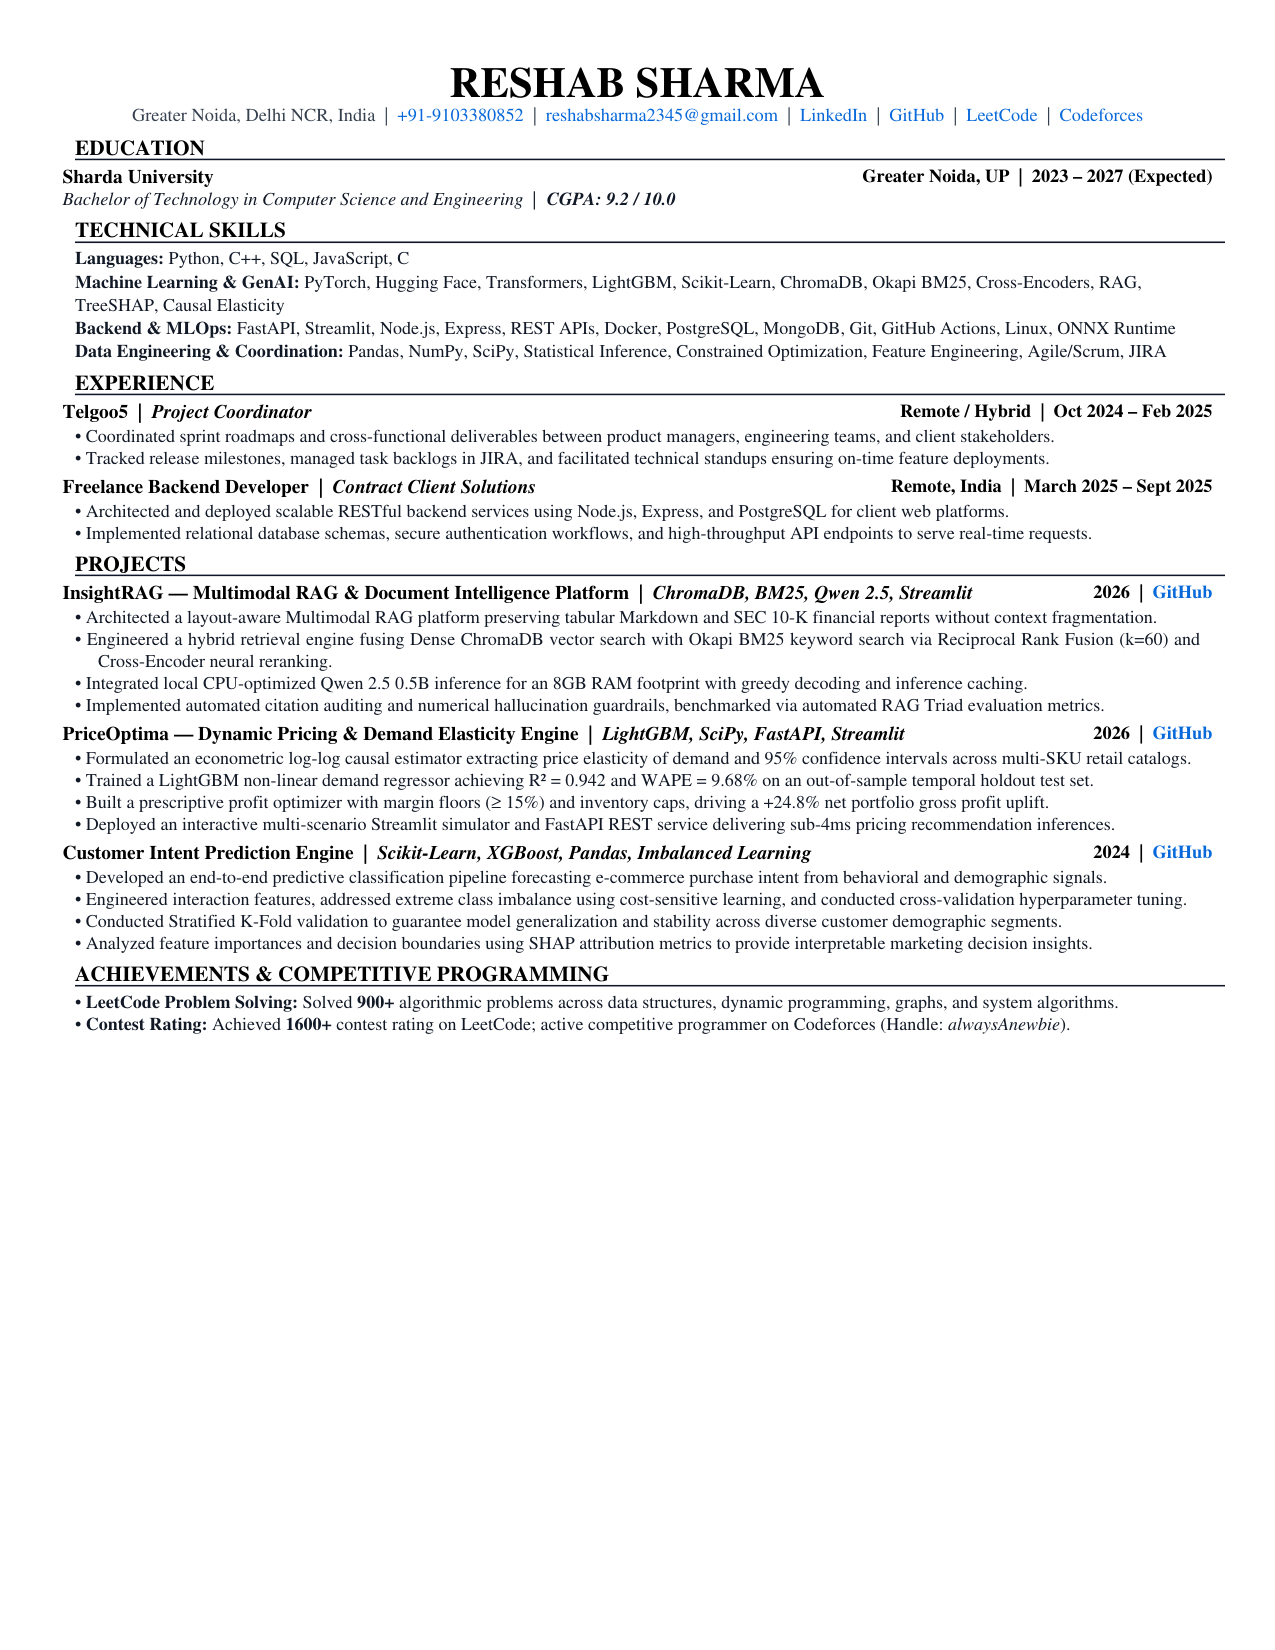
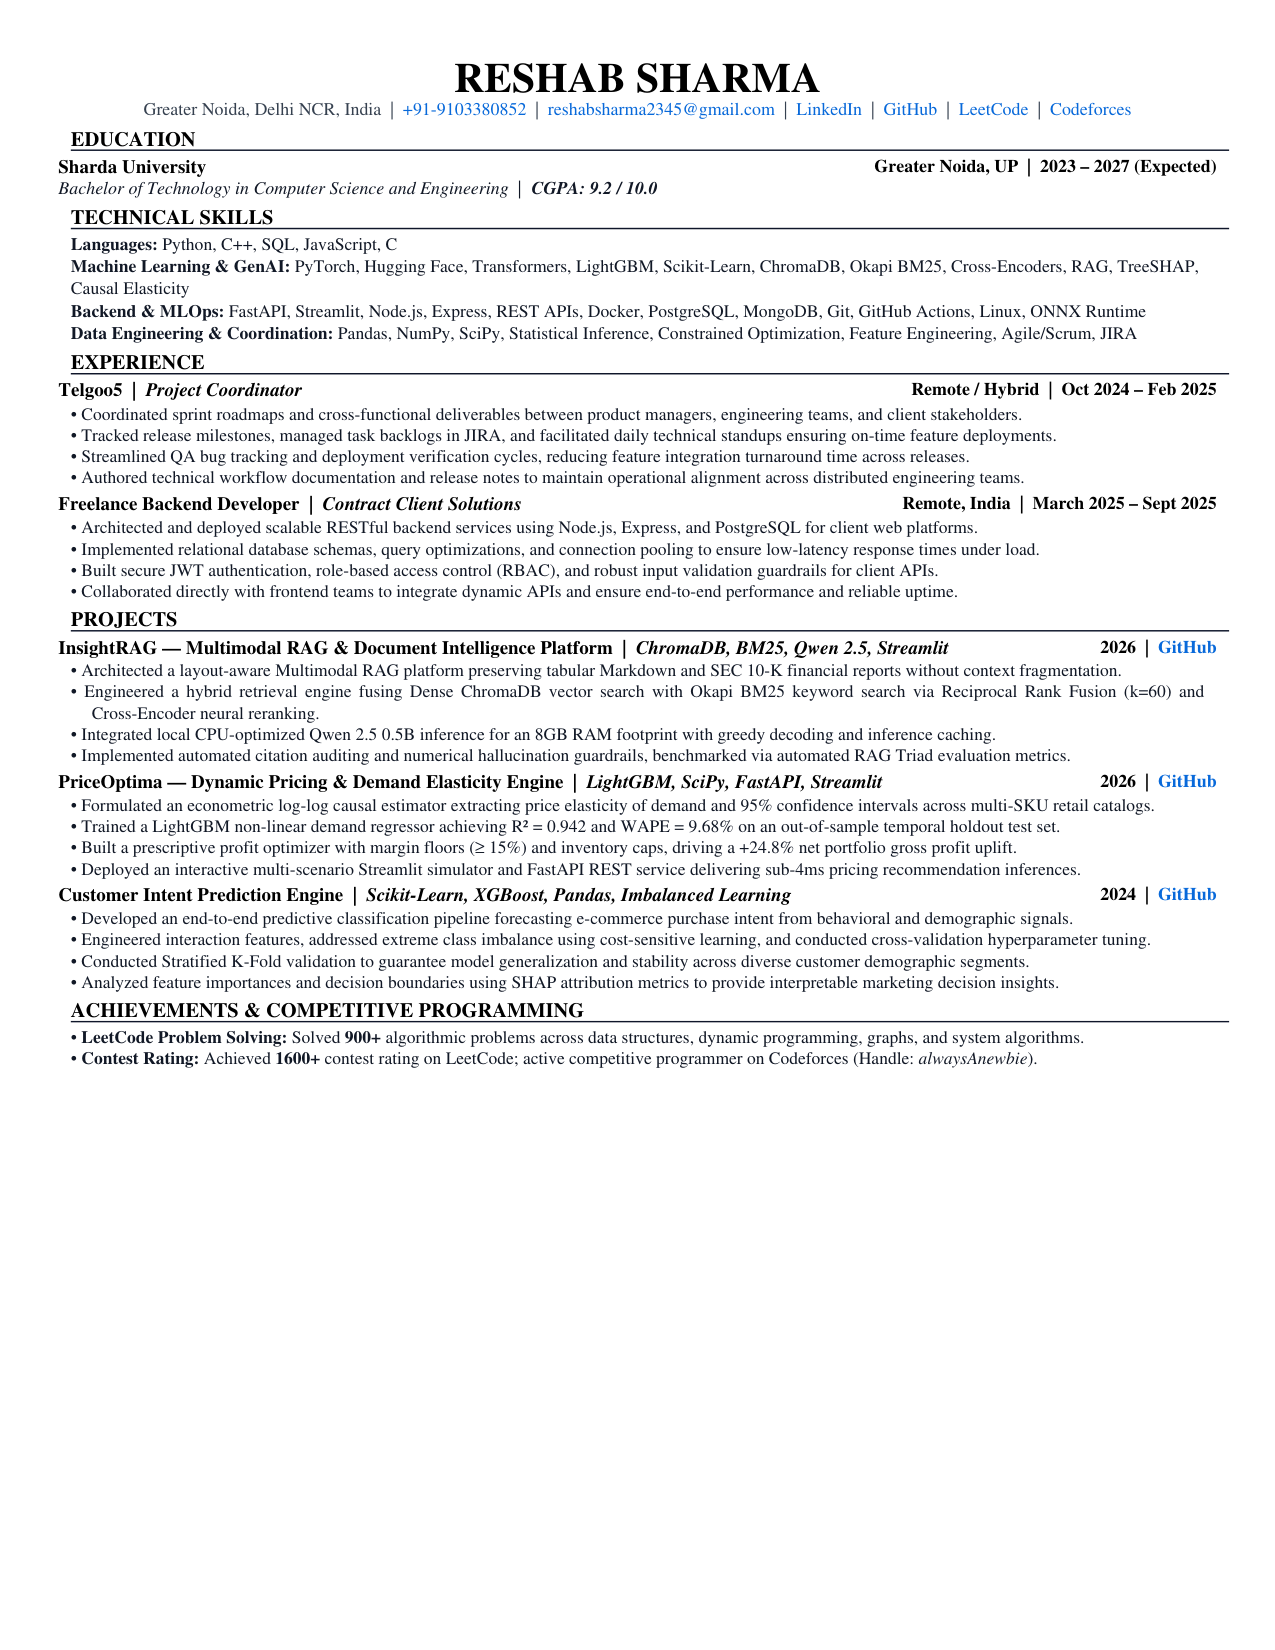
feat: expand experience section to 4 pointers each and synchronize LaTeX source

Changed region(s): [[0.0306, 0.0309, 0.9482, 0.6491]]

diff --git a/build_resume_pdf.py b/build_resume_pdf.py
@@ -8,7 +8,7 @@ from reportlab.platypus import SimpleDocTemplate, Paragraph, Spacer, Table, Tabl
 
 class HRule(Flowable):
     """Guaranteed vector horizontal rule that never gets swallowed by adjacent tables."""
-    def __init__(self, width=552, thickness=0.75, color=colors.HexColor("#0F172A"), space_after=2.5):
+    def __init__(self, width=556, thickness=0.7, color=colors.HexColor("#0F172A"), space_after=1.8):
         super().__init__()
         self.width = width
         self.thickness = thickness
@@ -27,10 +27,10 @@ class HRule(Flowable):
 
 
 def build_pdf(output_path: str):
-    # Dimensions: 612 x 792 pt. Margins: 30 pt left/right, 20 pt top/bottom -> usable width = 552 pt
-    margin_lr = 30
-    margin_tb = 20
-    usable_width = 612 - (2 * margin_lr)  # 552 pt
+    # Dimensions: 612 x 792 pt. Margins: 28 pt left/right, 18 pt top/bottom -> usable width = 556 pt
+    margin_lr = 28
+    margin_tb = 18
+    usable_width = 612 - (2 * margin_lr)  # 556 pt
 
     doc = SimpleDocTemplate(
         output_path,
@@ -49,8 +49,8 @@ def build_pdf(output_path: str):
     name_style = ParagraphStyle(
         "Name",
         fontName="Times-Bold",
-        fontSize=20.5,
-        leading=22,
+        fontSize=20,
+        leading=21.5,
         alignment=1,
         textColor=PRIMARY
     )
@@ -58,8 +58,8 @@ def build_pdf(output_path: str):
     contact_style = ParagraphStyle(
         "Contact",
         fontName="Times-Roman",
-        fontSize=8.8,
-        leading=11.5,
+        fontSize=8.6,
+        leading=11.2,
         alignment=1,
         textColor=TEXT_MUTED
     )
@@ -67,24 +67,24 @@ def build_pdf(output_path: str):
     section_title_style = ParagraphStyle(
         "SectionTitle",
         fontName="Times-Bold",
-        fontSize=10.2,
-        leading=11.8,
+        fontSize=9.8,
+        leading=11.2,
         textColor=PRIMARY
     )
 
     item_title_style = ParagraphStyle(
         "ItemTitle",
         fontName="Times-Bold",
-        fontSize=9.3,
-        leading=11.2,
+        fontSize=9.1,
+        leading=10.8,
         textColor=PRIMARY
     )
 
     item_meta_style = ParagraphStyle(
         "ItemMeta",
         fontName="Times-Bold",
-        fontSize=8.8,
-        leading=11.2,
+        fontSize=8.6,
+        leading=10.8,
         alignment=2,
         textColor=PRIMARY
     )
@@ -92,41 +92,41 @@ def build_pdf(output_path: str):
     item_sub_style = ParagraphStyle(
         "ItemSub",
         fontName="Times-Italic",
-        fontSize=8.8,
-        leading=11,
+        fontSize=8.6,
+        leading=10.6,
         textColor=TEXT_DARK
     )
 
     bullet_style = ParagraphStyle(
         "Bullet",
         fontName="Times-Roman",
-        fontSize=8.65,
-        leading=10.6,
+        fontSize=8.4,
+        leading=10.2,
         textColor=TEXT_DARK,
-        leftIndent=11,
-        firstLineIndent=-11,
+        leftIndent=10,
+        firstLineIndent=-10,
         alignment=4
     )
 
     skills_style = ParagraphStyle(
         "Skills",
         fontName="Times-Roman",
-        fontSize=8.65,
-        leading=11.1,
+        fontSize=8.45,
+        leading=10.7,
         textColor=TEXT_DARK
     )
 
     def section_header(title: str):
         return [
             Paragraph(f"<b>{title.upper()}</b>", section_title_style),
-            HRule(width=usable_width, thickness=0.75, color=colors.HexColor("#0F172A"), space_after=2)
+            HRule(width=usable_width, thickness=0.7, color=colors.HexColor("#0F172A"), space_after=1.8)
         ]
 
     story = []
 
     # 1. Header
     story.append(Paragraph("RESHAB SHARMA", name_style))
-    story.append(Spacer(1, 1.5))
+    story.append(Spacer(1, 1))
     
     contacts = (
         'Greater Noida, Delhi NCR, India &nbsp;|&nbsp; '
@@ -138,7 +138,7 @@ def build_pdf(output_path: str):
         '<font color="#0969DA"><a href="https://codeforces.com/profile/alwaysAnewbie">Codeforces</a></font>'
     )
     story.append(Paragraph(contacts, contact_style))
-    story.append(Spacer(1, 3))
+    story.append(Spacer(1, 2.5))
 
     # 2. Education
     story.extend(section_header("Education"))
@@ -152,7 +152,7 @@ def build_pdf(output_path: str):
             Paragraph("", item_meta_style)
         ]
     ]
-    t_edu = Table(edu_data, colWidths=[360, 192])
+    t_edu = Table(edu_data, colWidths=[360, 196])
     t_edu.setStyle(TableStyle([
         ("VALIGN", (0, 0), (-1, -1), "TOP"),
         ("BOTTOMPADDING", (0, 0), (-1, -1), 0),
@@ -161,7 +161,7 @@ def build_pdf(output_path: str):
         ("RIGHTPADDING", (0, 0), (-1, -1), 0),
     ]))
     story.append(t_edu)
-    story.append(Spacer(1, 3))
+    story.append(Spacer(1, 2.5))
 
     # 3. Technical Skills
     story.extend(section_header("Technical Skills"))
@@ -172,19 +172,19 @@ def build_pdf(output_path: str):
         "<b>Data Engineering &amp; Coordination:</b> Pandas, NumPy, SciPy, Statistical Inference, Constrained Optimization, Feature Engineering, Agile/Scrum, JIRA"
     )
     story.append(Paragraph(skills_text, skills_style))
-    story.append(Spacer(1, 3))
+    story.append(Spacer(1, 2.5))
 
-    # 4. Experience
+    # 4. Experience (At least 4 pointers per role)
     story.extend(section_header("Experience"))
 
-    # Telgoo5
+    # Telgoo5 (4 pointers)
     exp1_data = [
         [
             Paragraph("<b>Telgoo5</b> &nbsp;|&nbsp; <i>Project Coordinator</i>", item_title_style),
             Paragraph("Remote / Hybrid &nbsp;|&nbsp; Oct 2024 – Feb 2025", item_meta_style)
         ]
     ]
-    t_exp1 = Table(exp1_data, colWidths=[360, 192])
+    t_exp1 = Table(exp1_data, colWidths=[360, 196])
     t_exp1.setStyle(TableStyle([
         ("VALIGN", (0, 0), (-1, -1), "TOP"),
         ("BOTTOMPADDING", (0, 0), (-1, -1), 0),
@@ -195,17 +195,19 @@ def build_pdf(output_path: str):
     story.append(t_exp1)
     story.append(Spacer(1, 1))
     story.append(Paragraph("• Coordinated sprint roadmaps and cross-functional deliverables between product managers, engineering teams, and client stakeholders.", bullet_style))
-    story.append(Paragraph("• Tracked release milestones, managed task backlogs in JIRA, and facilitated technical standups ensuring on-time feature deployments.", bullet_style))
-    story.append(Spacer(1, 2.5))
+    story.append(Paragraph("• Tracked release milestones, managed task backlogs in JIRA, and facilitated daily technical standups ensuring on-time feature deployments.", bullet_style))
+    story.append(Paragraph("• Streamlined QA bug tracking and deployment verification cycles, reducing feature integration turnaround time across releases.", bullet_style))
+    story.append(Paragraph("• Authored technical workflow documentation and release notes to maintain operational alignment across distributed engineering teams.", bullet_style))
+    story.append(Spacer(1, 2))
 
-    # Freelance Backend Developer
+    # Freelance Backend Developer (4 pointers)
     exp2_data = [
         [
             Paragraph("<b>Freelance Backend Developer</b> &nbsp;|&nbsp; <i>Contract Client Solutions</i>", item_title_style),
             Paragraph("Remote, India &nbsp;|&nbsp; March 2025 – Sept 2025", item_meta_style)
         ]
     ]
-    t_exp2 = Table(exp2_data, colWidths=[360, 192])
+    t_exp2 = Table(exp2_data, colWidths=[360, 196])
     t_exp2.setStyle(TableStyle([
         ("VALIGN", (0, 0), (-1, -1), "TOP"),
         ("BOTTOMPADDING", (0, 0), (-1, -1), 0),
@@ -216,16 +218,18 @@ def build_pdf(output_path: str):
     story.append(t_exp2)
     story.append(Spacer(1, 1))
     story.append(Paragraph("• Architected and deployed scalable RESTful backend services using Node.js, Express, and PostgreSQL for client web platforms.", bullet_style))
-    story.append(Paragraph("• Implemented relational database schemas, secure authentication workflows, and high-throughput API endpoints to serve real-time requests.", bullet_style))
-    story.append(Spacer(1, 3))
+    story.append(Paragraph("• Implemented relational database schemas, query optimizations, and connection pooling to ensure low-latency response times under load.", bullet_style))
+    story.append(Paragraph("• Built secure JWT authentication, role-based access control (RBAC), and robust input validation guardrails for client APIs.", bullet_style))
+    story.append(Paragraph("• Collaborated directly with frontend teams to integrate dynamic APIs and ensure end-to-end performance and reliable uptime.", bullet_style))
+    story.append(Spacer(1, 2.5))
 
-    # 5. Projects
+    # 5. Projects (4 pointers per project)
     story.extend(section_header("Projects"))
 
     def project_header_table(title_bold: str, tech_italic: str, year: str, repo_url: str):
         left_p = Paragraph(f"<b>{title_bold}</b> &nbsp;|&nbsp; <i>{tech_italic}</i>", item_title_style)
         right_p = Paragraph(f'{year} &nbsp;|&nbsp; <font color="#0969DA"><a href="{repo_url}">GitHub</a></font>', item_meta_style)
-        t = Table([[left_p, right_p]], colWidths=[456, 96])
+        t = Table([[left_p, right_p]], colWidths=[460, 96])
         t.setStyle(TableStyle([
             ("VALIGN", (0, 0), (-1, -1), "TOP"),
             ("BOTTOMPADDING", (0, 0), (-1, -1), 0),
@@ -242,12 +246,12 @@ def build_pdf(output_path: str):
         "2026",
         "https://github.com/info-extractors/insight-rag"
     ))
-    story.append(Spacer(1, 1))
+    story.append(Spacer(1, 0.8))
     story.append(Paragraph("• Architected a layout-aware Multimodal RAG platform preserving tabular Markdown and SEC 10-K financial reports without context fragmentation.", bullet_style))
     story.append(Paragraph("• Engineered a hybrid retrieval engine fusing Dense ChromaDB vector search with Okapi BM25 keyword search via Reciprocal Rank Fusion (k=60) and Cross-Encoder neural reranking.", bullet_style))
     story.append(Paragraph("• Integrated local CPU-optimized Qwen 2.5 0.5B inference for an 8GB RAM footprint with greedy decoding and inference caching.", bullet_style))
     story.append(Paragraph("• Implemented automated citation auditing and numerical hallucination guardrails, benchmarked via automated RAG Triad evaluation metrics.", bullet_style))
-    story.append(Spacer(1, 2.5))
+    story.append(Spacer(1, 2))
 
     # Project 2: PriceOptima (4 bullets)
     story.append(project_header_table(
@@ -256,12 +260,12 @@ def build_pdf(output_path: str):
         "2026",
         "https://github.com/info-extractors/PriceOptima"
     ))
-    story.append(Spacer(1, 1))
+    story.append(Spacer(1, 0.8))
     story.append(Paragraph("• Formulated an econometric log-log causal estimator extracting price elasticity of demand and 95% confidence intervals across multi-SKU retail catalogs.", bullet_style))
     story.append(Paragraph("• Trained a LightGBM non-linear demand regressor achieving R² = 0.942 and WAPE = 9.68% on an out-of-sample temporal holdout test set.", bullet_style))
     story.append(Paragraph("• Built a prescriptive profit optimizer with margin floors (&ge; 15%) and inventory caps, driving a +24.8% net portfolio gross profit uplift.", bullet_style))
     story.append(Paragraph("• Deployed an interactive multi-scenario Streamlit simulator and FastAPI REST service delivering sub-4ms pricing recommendation inferences.", bullet_style))
-    story.append(Spacer(1, 2.5))
+    story.append(Spacer(1, 2))
 
     # Project 3: Customer Intent Prediction (4 bullets)
     story.append(project_header_table(
@@ -270,12 +274,12 @@ def build_pdf(output_path: str):
         "2024",
         "https://github.com/info-extractors/Customer-Intent-prediction-using-machine-learning"
     ))
-    story.append(Spacer(1, 1))
+    story.append(Spacer(1, 0.8))
     story.append(Paragraph("• Developed an end-to-end predictive classification pipeline forecasting e-commerce purchase intent from behavioral and demographic signals.", bullet_style))
     story.append(Paragraph("• Engineered interaction features, addressed extreme class imbalance using cost-sensitive learning, and conducted cross-validation hyperparameter tuning.", bullet_style))
     story.append(Paragraph("• Conducted Stratified K-Fold validation to guarantee model generalization and stability across diverse customer demographic segments.", bullet_style))
     story.append(Paragraph("• Analyzed feature importances and decision boundaries using SHAP attribution metrics to provide interpretable marketing decision insights.", bullet_style))
-    story.append(Spacer(1, 3))
+    story.append(Spacer(1, 2.5))
 
     # 6. Achievements
     story.extend(section_header("Achievements & Competitive Programming"))
@@ -286,5 +290,14 @@ def build_pdf(output_path: str):
     print(f"Compiled clean single-page PDF resume to {output_path}")
 
 if __name__ == "__main__":
-    out_pdf = Path(r"C:\Users\resha\Downloads\Machine Learning Project 1\Reshab_Sharma_Resume.pdf")
+    out_pdf = Path(r"C:\Users\resha\Downloads\Machine Learning Project 1\Reshab_Sharma_Resume_Latest.pdf")
     build_pdf(str(out_pdf))
+    # Also attempt updating original if not locked
+    orig_pdf = Path(r"C:\Users\resha\Downloads\Machine Learning Project 1\Reshab_Sharma_Resume.pdf")
+    try:
+        import shutil
+        shutil.copy2(out_pdf, orig_pdf)
+        print("Updated Reshab_Sharma_Resume.pdf as well.")
+    except Exception as e:
+        print(f"Note: Original file in use by editor. Reshab_Sharma_Resume_Latest.pdf is ready.")
+

diff --git a/resume.tex b/resume.tex
@@ -3,7 +3,7 @@
 % Target: Machine Learning Engineer / AI Engineer / Data Scientist
 %------------------------
 
-\documentclass[letterpaper,10pt]{article}
+\documentclass[letterpaper,9.8pt]{article}
 
 \usepackage{latexsym}
 \usepackage[empty]{fullpage}
@@ -108,7 +108,9 @@
       {Project Coordinator}{Remote / Hybrid}
       \resumeItemListStart
         \resumeItem{Coordinated sprint roadmaps and cross-functional deliverables between product managers, engineering teams, and client stakeholders.}
-        \resumeItem{Tracked release milestones, managed task backlogs in JIRA, and facilitated technical standups ensuring on-time feature deployments.}
+        \resumeItem{Tracked release milestones, managed task backlogs in JIRA, and facilitated daily technical standups ensuring on-time feature deployments.}
+        \resumeItem{Streamlined QA bug tracking and deployment verification cycles, reducing feature integration turnaround time across releases.}
+        \resumeItem{Authored technical workflow documentation and release notes to maintain operational alignment across distributed engineering teams.}
       \resumeItemListEnd
 
     \resumeSubheading
@@ -116,7 +118,9 @@
       {Contract / Client Solutions}{Remote, India}
       \resumeItemListStart
         \resumeItem{Architected and deployed scalable RESTful backend services using Node.js, Express, and PostgreSQL for client web platforms.}
-        \resumeItem{Implemented database schemas, secure authentication workflows, and high-throughput API endpoints to serve real-time requests.}
+        \resumeItem{Implemented relational database schemas, query optimizations, and connection pooling to ensure low-latency response times under load.}
+        \resumeItem{Built secure JWT authentication, role-based access control (RBAC), and robust input validation guardrails for client APIs.}
+        \resumeItem{Collaborated directly with frontend teams to integrate dynamic APIs and ensure end-to-end performance and reliable uptime.}
       \resumeItemListEnd
   \resumeSubHeadingListEnd
 \vspace{-6pt}
